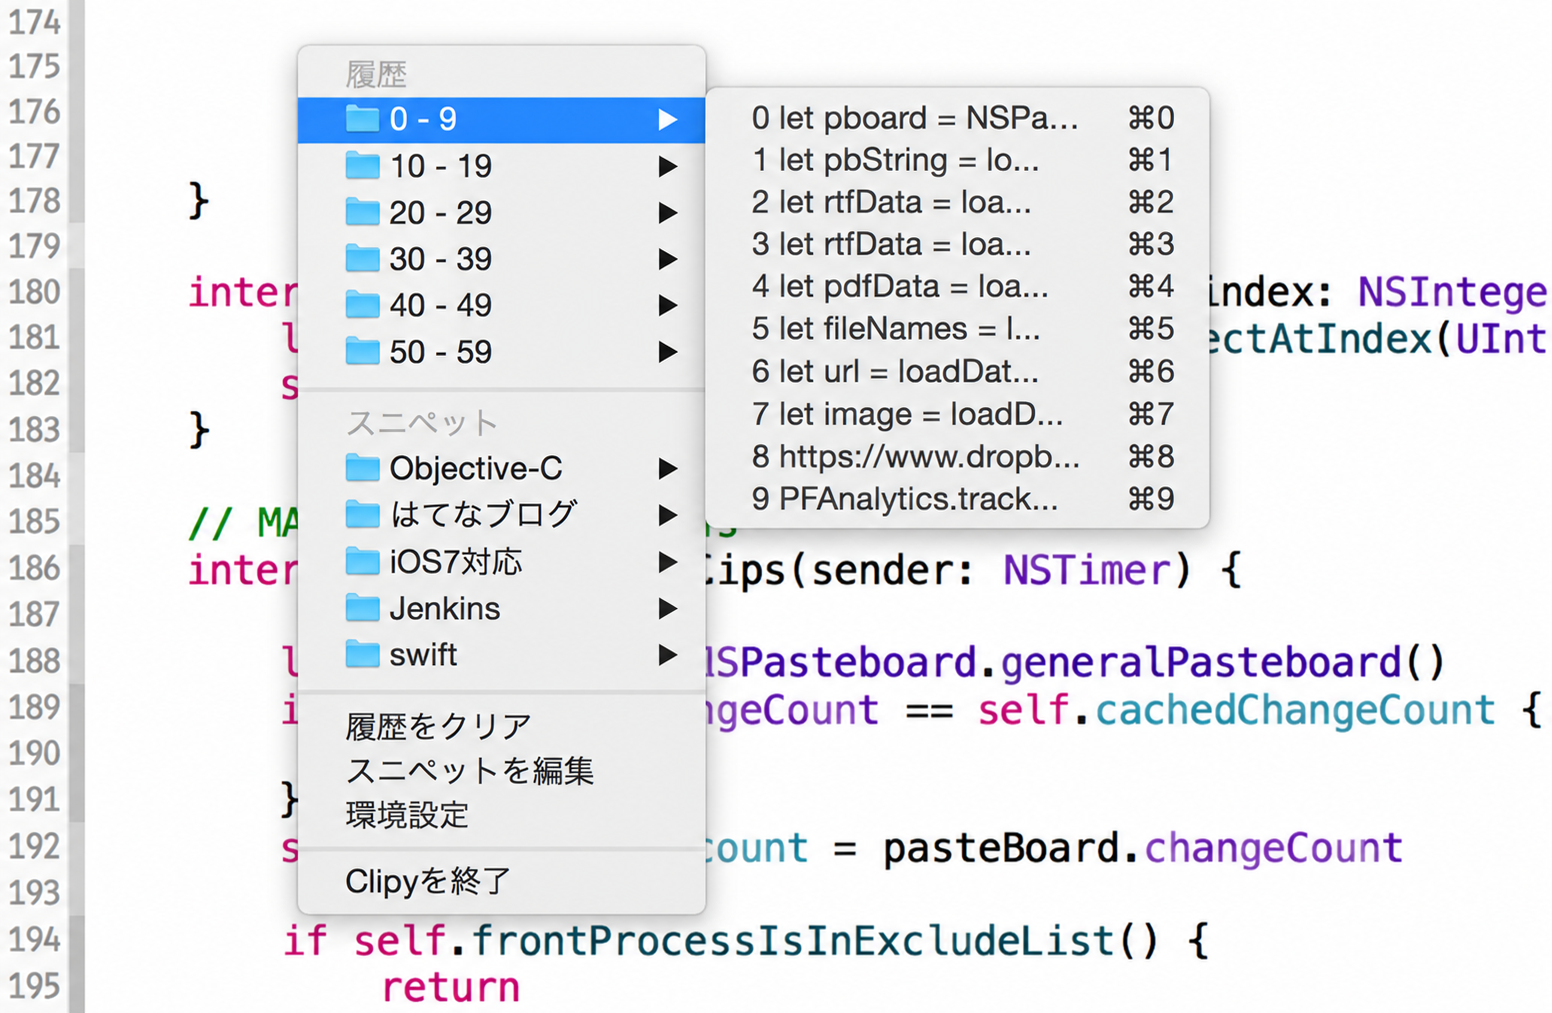
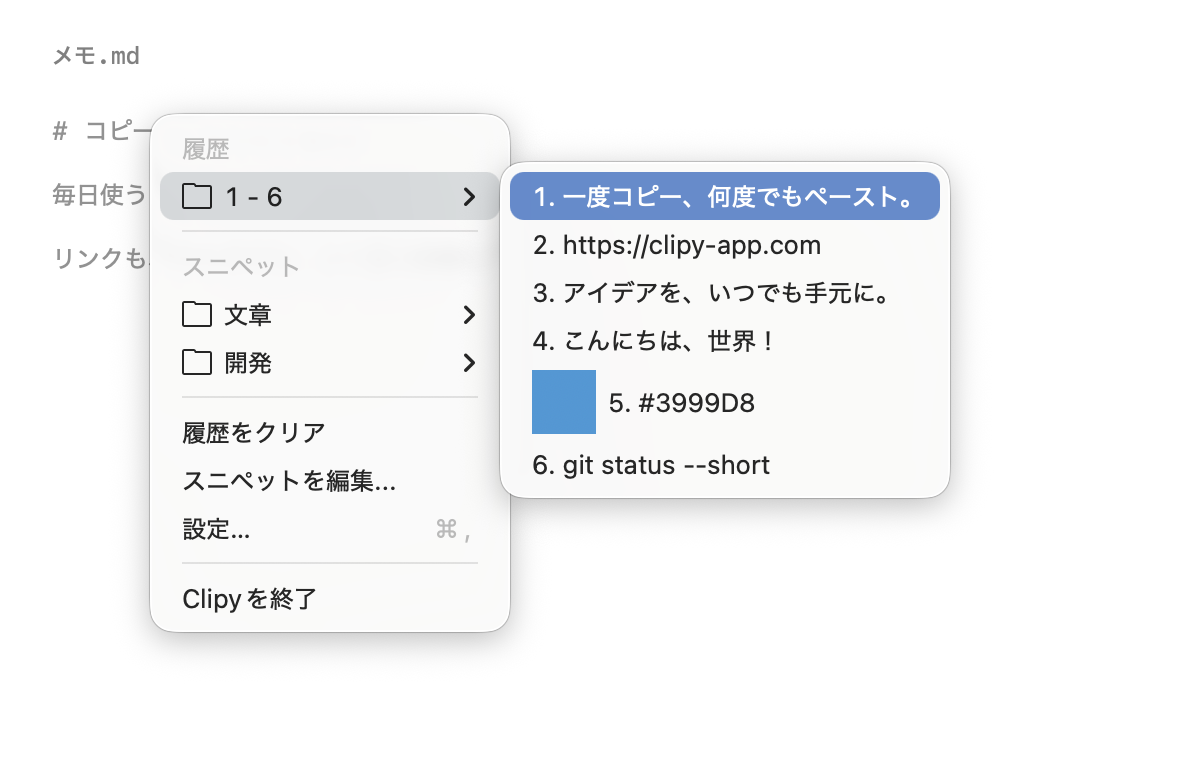
Add shared and localized interface screenshots

Changed region(s): [[0.0, 0.0, 1.0, 1.0], [0.1233, 0.398, 0.1542, 0.4592]]

diff --git a/css/main.css b/css/main.css
@@ -123,9 +123,10 @@ section > div , footer > div{
 }
 #screenshots-contents ul li img{
 	display: block;
-	width: 460px;
-	height: 300px;
-	object-fit: cover;
+	width: auto;
+	height: auto;
+	max-width: 460px;
+	max-height: 300px;
 	border-radius: 6px;
 	box-shadow: 0 12px 24px rgba(7, 30, 46, 0.22), 0 2px 6px rgba(7, 30, 46, 0.14);
 }
@@ -187,7 +188,7 @@ section > div , footer > div{
 	box-sizing: border-box;
 	overflow: hidden;
 	width: 80px;
-	height: 64px;
+	height: auto;
 	border: 1px solid rgba(255, 255, 255, 0.5);
 	padding: 0;
 	background: transparent;
@@ -209,9 +210,9 @@ section > div , footer > div{
 	border: 1px solid rgba( 255 , 255 , 255 , 1 );
 }
 .control-position img{
+	display: block;
 	width: 100%;
-	height: 100%;
-	object-fit: cover;
+	height: auto;
 }
 
 /***** function *****/

diff --git a/README.md b/README.md
@@ -31,10 +31,9 @@ To add a language:
 2. Update `ogLocale` (for example, `fr_FR`) and translate the text. Keep all keys and the
    same JSON structure as the English file. Text is escaped when rendered;
    write plain text rather than HTML.
-3. Optionally add screenshots under `src/img/screenshots/<language>/` and update
-   the public `/img/screenshots/<language>/...` paths in the JSON. Existing image
-   paths can be kept until localized screenshots are ready.
-4. Preview the page, run the build above, and open a pull request.
+3. Preview the page, run the build above, and open a pull request. Screenshots
+   default to the shared English set, so adding a language only requires text
+   translations, including screenshot alt text and thumbnail labels.
 
 Keep placeholders such as `{minimumMacOS}`, `{issues}`, `{pullRequests}`, and
 `{author}` intact. They insert shared values or links, and can be moved within
@@ -71,6 +70,8 @@ that language; there is no language switcher.
   Google Analytics ID.
 - `src/_data/release.json`: website version, download URL, and minimum macOS
   version. Update this file once for all languages.
+- `src/_data/screenshots.json`: shared screenshot paths and optional overrides.
+  Each image falls back to its `en` path when the current language has no entry.
 - The bundled official `HtmlBasePlugin` creates absolute metadata URLs with
   `htmlBaseUrl`; page assets stay on the current host for local and preview builds.
 - `css/` and `js/`: shared styles and scripts. Eleventy's built-in `RenderPlugin`
@@ -83,8 +84,10 @@ that language; there is no language switcher.
   `@11ty/eleventy-img` HTML Transform processes local `<img>` elements automatically
   and generates content-hashed filenames under `img/`. Passthrough format preserves
   the original image bytes. Use public paths such as `/img/common/wordmark.png` in
-  the template and translation JSON; the plugin resolves them from `src/`.
+  the template and shared screenshot data; the plugin resolves them from `src/`.
   The externally hosted GitHub ribbon opts out with `eleventy:ignore`.
+- `src/img/common/clipboard-history.png` and `src/img/common/snippets.jpg`: the
+  default English screenshots shared by every language unless overridden.
 - `src/img/common/app-icon.png` and `src/favicon*.png`: the OGP image and favicons
   are copied unchanged to stable public URLs. HTML Transform handles `<img>` and
   `<picture>`, while metadata uses these ordinary static files.
@@ -92,6 +95,33 @@ that language; there is no language switcher.
 - `appcast.xml` and `releasenotes/`: app update feed and release notes. They are
   copied as static files; the website release settings are independent of the
   appcast.
+
+### Optional localized screenshots
+
+Japanese screenshots are provided in `src/img/screenshots/ja/` and selected through
+the shared screenshot metadata.
+
+Screenshot contributions are optional. To override an image, add it under
+`src/img/screenshots/<language>/` and register its public path for that language
+in `src/_data/screenshots.json`. For example, this overrides only the Japanese
+clipboard history image; all other languages and the snippets image keep using
+the shared English images:
+
+```json
+{
+  "clipboardHistory": {
+    "en": "/img/common/clipboard-history.png",
+    "ja": "/img/screenshots/ja/clipboard-history.png"
+  },
+  "snippets": {
+    "en": "/img/common/snippets.jpg"
+  }
+}
+```
+
+The template uses Nunjucks' built-in `default` filter for each image. Main slides
+and thumbnails always use the same selected source. No Eleventy configuration
+changes or additional plugins are needed.
 
 ## Dependency updates
 
